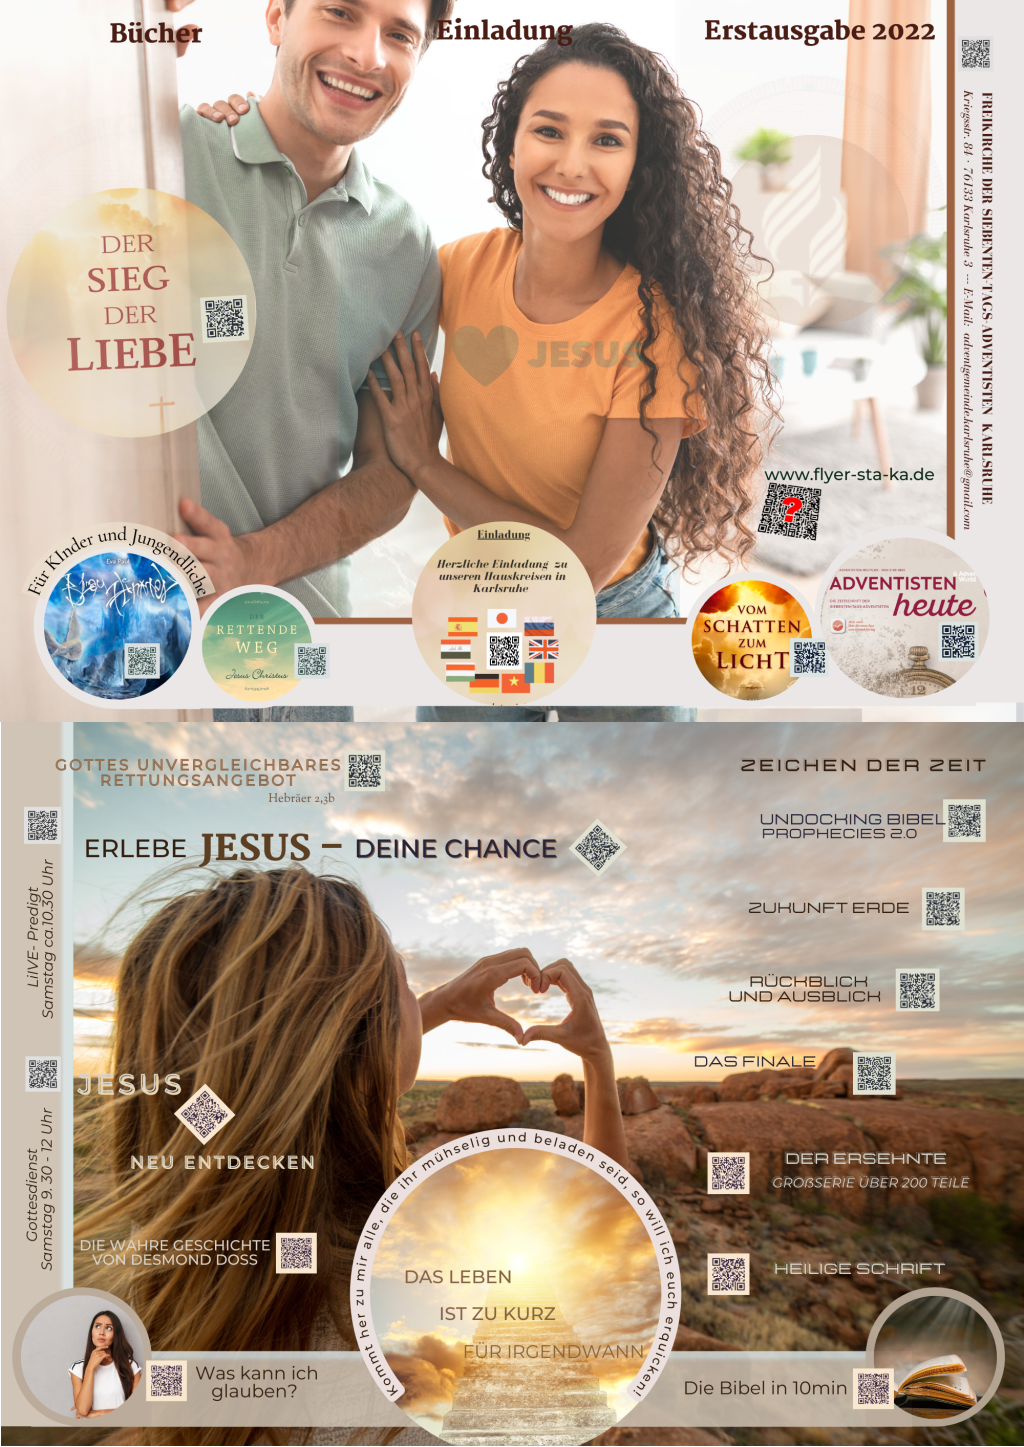
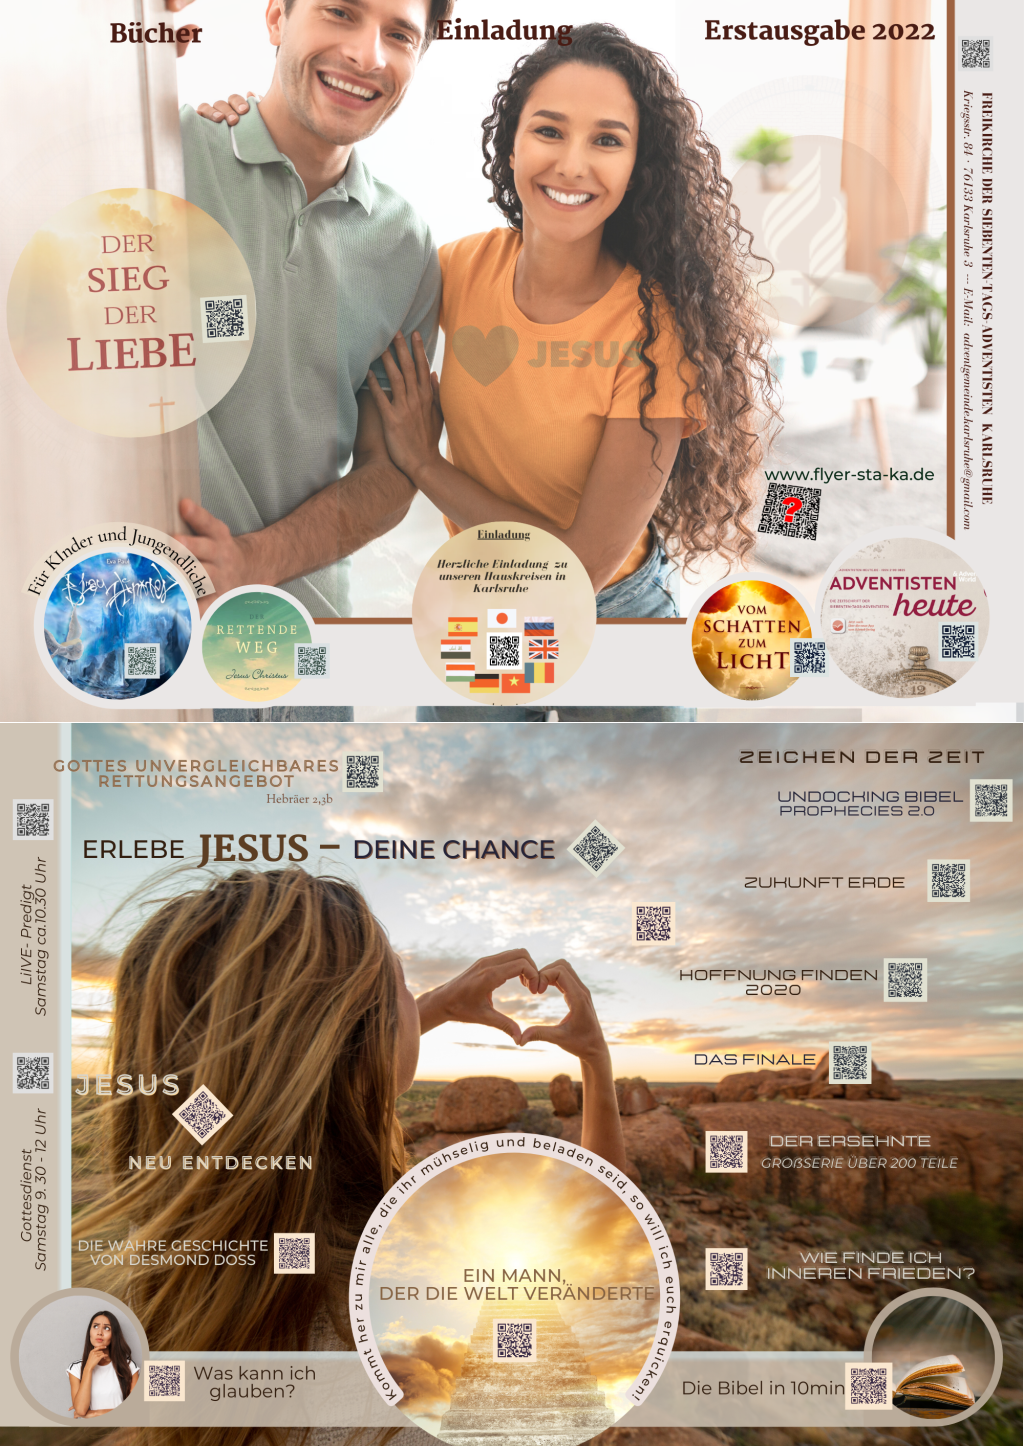
added links and updated pictures

diff --git a/index.html b/index.html
@@ -6,6 +6,31 @@
   <title>Slide 1</title>
 </head>
 <body text="#000000" bgcolor="#FFFFFF" link="#C34113" vlink="#94310F" alink="#C34113">
-<center><img src="img0.png" alt=""></center>
+<center><img src="img0.png" alt="" USEMAP="#map0"></center>
+<map name="map0">
+<area shape="rect" alt="" coords="476,1300,552,1377" href="https://www.youtube.com/watch?v=xw_9YantlEY&t=1198s">
+<area shape="rect" alt="" coords="615,889,692,966" href="https://www.youtube.com/watch?v=xw_9YantlEY&t=1198s">
+<area shape="rect" alt="" coords="945,9,1022,537" href="https://www.adventgemeinde-karlsruhe.de/">
+<area shape="rect" alt="" coords="258,1211,335,1287" href="https://www.joelmedia.de/aufnahmen/hacksaw-ridge-die-heldenhafte-geschichte-des-desmond-doss/">
+<area shape="rect" alt="" coords="166,1077,243,1154" href="https://youtube.com/playlist?list=PLfEKJnqVGtP0_STdLiCCn98qKCA8RXjNc">
+<area shape="rect" alt="" coords="7,791,84,868" href="http://gottesdienst.adventgemeinde-karlsruhe.de/">
+<area shape="rect" alt="" coords="2,1037,79,1113" href="https://www.adventgemeinde-karlsruhe.de/">
+<area shape="rect" alt="" coords="130,1341,207,1418" href="https://www.youtube.com/watch?v=kbrSHQ2dqds&list=PLHibQpQXriVSC6VG2CrPhE-jnNKF7EHRJ">
+<area shape="rect" alt="" coords="814,1029,890,1105" href="https://www.youtube.com/playlist?list=PLjfLxyxVTljHgb2nLyxBQKdPmyDKr3J8m">
+<area shape="rect" alt="" coords="686,1116,762,1192" href="https://www.joelmedia.de/aufnahmen/der-ersehnte-im-anfang-war-das-wort/">
+<area shape="rect" alt="" coords="686,1228,762,1305" href="https://www.youtube.com/watch?v=h3rKYuRcuzs&t=1s">
+<area shape="rect" alt="" coords="834,1346,911,1423" href="https://www.youtube.com/watch?v=-wik3kdWeA0&list=PLURa-ZMpJUA6MsNkOHzBf3g4zztaq60nf&index=2">
+<area shape="rect" alt="" coords="910,844,986,921" href="https://youtube.com/playlist?list=PLjN-EVEOgrt56QMJ6g4qiddCevSdTvv9B">
+<area shape="rect" alt="" coords="952,768,1029,844" href="https://daswort.tv/mediathek/serien/3585/unlocking-bible-prophecies-20/cami-oetman">
+<area shape="rect" alt="" coords="870,947,947,1024" href="https://adventgemeinde-backnang.de/mediathek/hoffnung-finden-2020">
+<area shape="rect" alt="" coords="329,732,406,809" href="https://www.youtube.com/watch?v=0jbxgBlUYSE">
+<area shape="rect" alt="" coords="559,809,636,886" href="https://gotterfahren.info/beziehung-zu-gott/erlebe-jesus-deine-chance">
+<area shape="rect" alt="" coords="916,603,993,680" href="https://qrco.de/bcnY44">
+<area shape="rect" alt="" coords="768,619,844,696" href="https://beta.egwwritings.org/book/b13946">
+<area shape="rect" alt="" coords="460,614,537,691" href="https://forms.gle/CWbKtrPg1w8uS1wX8">
+<area shape="rect" alt="" coords="271,619,348,696" href="https://beta.egwwritings.org/book/b168">
+<area shape="rect" alt="" coords="103,623,180,700" href="https://www.youtube.com/channel/UC0p20V_5wcaUccNo50AvjxQ">
+<area shape="rect" alt="" coords="185,280,262,357" href="https://beta.egwwritings.org/book/b13952">
+</map>
 </body>
 </html>
